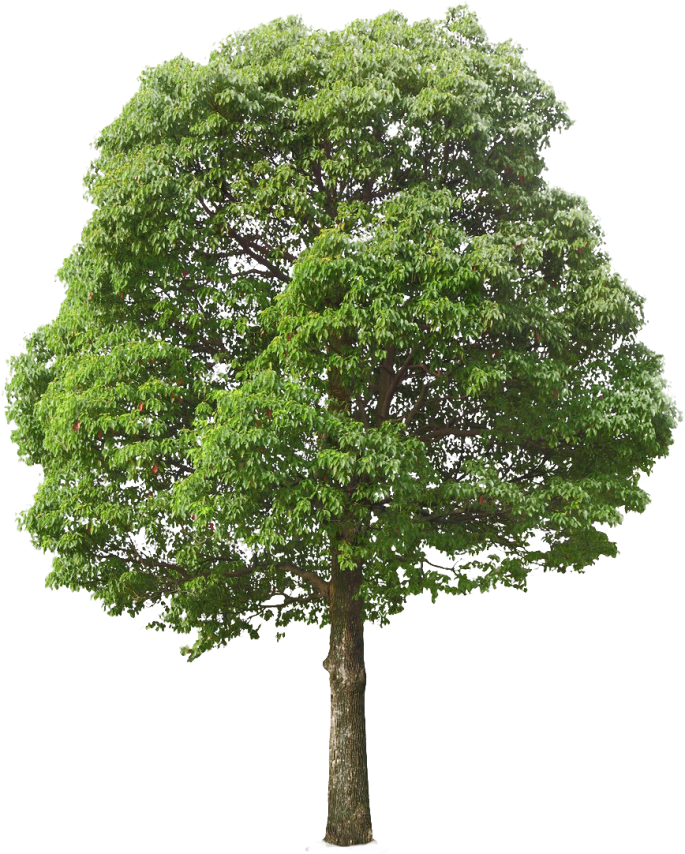
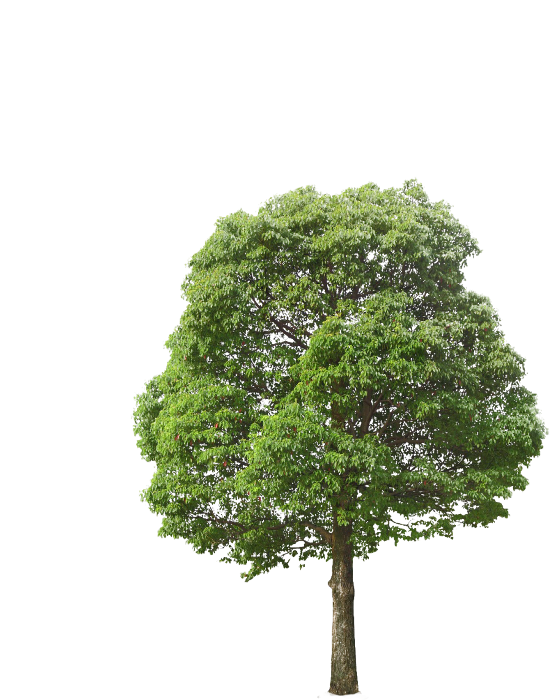
change in tree image

diff --git a/src/tree.h b/src/tree.h
@@ -9,7 +9,7 @@ public:
     GLuint tex;
     unsigned int shaderProgram;
     float rotation=0.02f;
-    glm::vec2 pos=glm::vec2(289,628);
+    glm::vec2 pos=glm::vec2(344/2,-695/2);
     float current_angle=0.0f;
     float count=0;//max count 60
     float maxcount=60;
